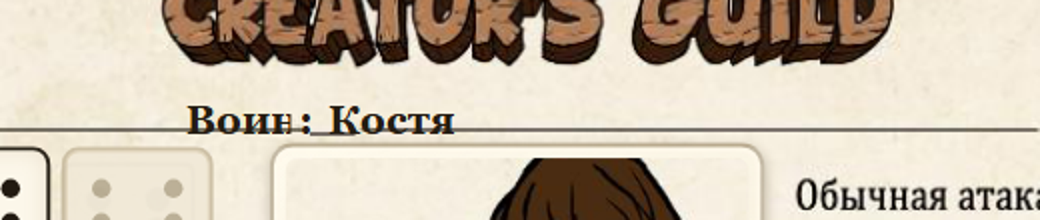
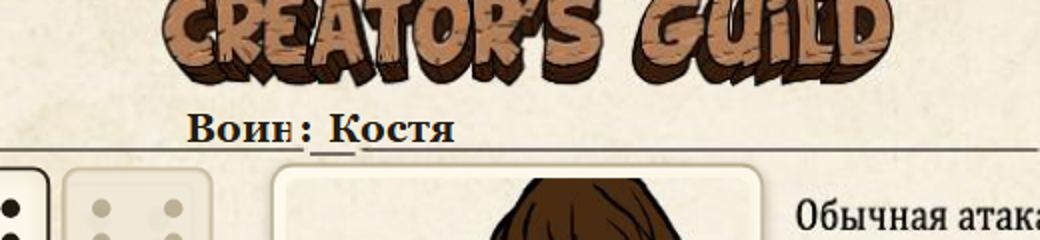
Hero Kids: поднять класс и имя ещё выше

diff --git a/desktop-host/extensions/herokids/styles.css b/desktop-host/extensions/herokids/styles.css
@@ -93,7 +93,7 @@ body:not(.is-gm) .gmOnly { display: none !important; }
 .name-row {
   position: absolute;
   left: 34.0%;
-  top: 19.2%;
+  top: 18.5%;
   width: 34.0%;
   height: 3.7%;
   display: flex;
